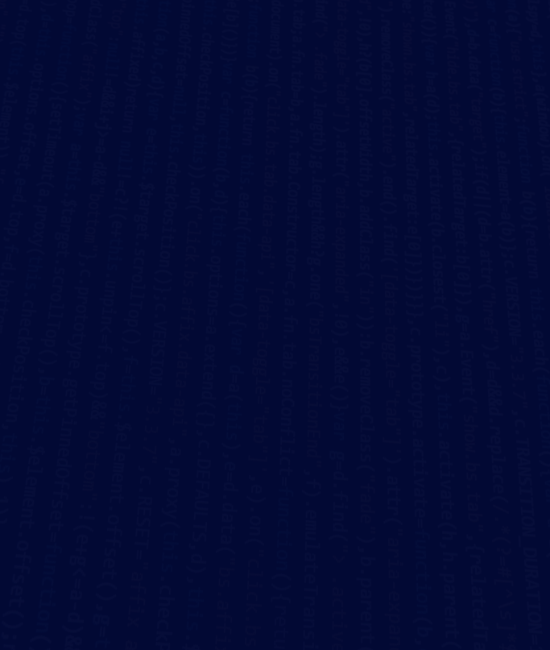
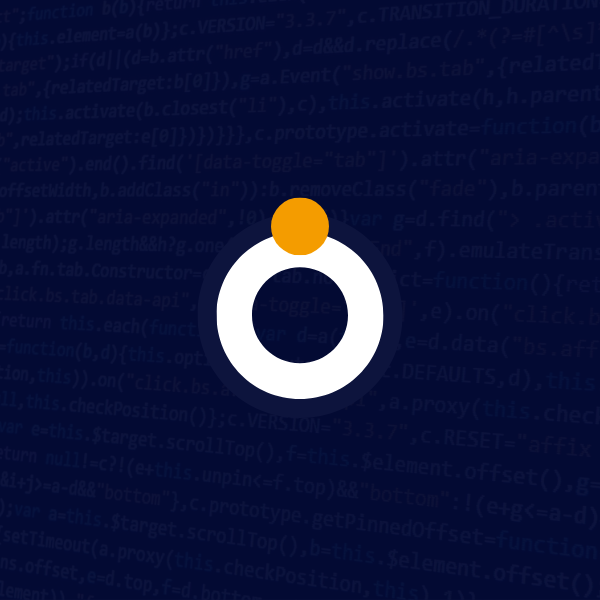
updated

Changed region(s): [[0.34, 0.33, 0.6491, 0.69]]

diff --git a/src/components/Pages/SignUp.js b/src/components/Pages/SignUp.js
@@ -15,7 +15,7 @@ const SignUp = () => {
     error,
   ] = useCreateUserWithEmailAndPassword(auth);
 
-  if(loading){
+  if (loading) {
     return <button class="btn btn-square loading flex mx-auto"></button>
   }
 
@@ -25,114 +25,116 @@ const SignUp = () => {
   };
 
   return (
-    <div className='flex'>
-      <div className='flex-1 hidden lg:block'><LeftSide/></div>
-      <div className='flex-1 items-start m-16'>
-        <h2 className='text-3xl text-left font-bold'>Create an account</h2>
-        <p className='text-xl text-gray-500 mt-3 text-left font-semibold'>Let's get started! Fill the form below to sign up</p>
-        <form onSubmit={handleSubmit(onSubmit)}>
-          <div class="form-control w-full">
-            <label class="label">
-              <span class="label-text text-xl mt-3">Pick a username</span>
-            </label>
-            <input
-              type="text"
-              placeholder="Username"
-              class="input text-xl input-bordered w-full "
-              {...register("username", {
-                required: {
-                  value: true,
-                  message: "Username is Required"
-                }
-              })}
-            />
-            <label className='label text-red-500'>
-              {errors.name?.type === 'required' && "Username is required"}
-            </label>
-            <label class="label">
-              <span class="label-text text-xl">Name</span>
-            </label>
-            <input
-              type="text"
-              placeholder="John Smith"
-              class="input text-xl input-bordered w-full "
-              {...register("name", {
-                required: {
-                  value: true,
-                  message: "Name is Required"
-                }
-              })}
-            />
-            <label class="label text-red-500">
-            {errors.name?.type === 'required' && "Name is required"}
-            </label>
-            <label class="label">
-              <span class="label-text text-xl mt-3">Email</span>
-            </label>
-            <input
-              type="email"
-              placeholder="johndoe@gmail.com"
-              class="input text-xl input-bordered w-full "
-              {...register("email", {
-                required: {
-                  value: true,
-                  message: "Email is Required"
-                },
-                pattern: {
-                  value: /[a-z0-9]+@[a-z]+\.[a-z]{2,3}/,
-                  message: 'Provide a valid Email'
-                }
-              })}
-            />
-            <label class="label">
-              {errors.email?.type === 'required' && <span class="label-text text-xl text-red-500">{errors.email.message}</span>}
-              {errors.email?.type === 'pattern' && <span class="label-text text-xl text-red-500">{errors.email.message}</span>}
-            </label>
-            <label className="label">
-              <span class="label-text text-xl">Country</span>
-            </label>
-            <select
-              class="select font-normal text-gray-400 text-xl select-bordered w-full"
-              {...register("country")}
-            >
-              <option className='text-xl' disabled selected>Select a Country</option>
-              <option value="Bangladesh" className='text-xl'>India</option>
-              <option value="India" className='text-xl'>Bangladesh</option>
-            </select>
-            <label class="label">
-              <span class="label-text text-xl mt-3">Password</span>
-            </label>
-            <input
-              type="password"
-              placeholder="password"
-              class="input text-xl input-bordered w-full "
-              {...register("password", {
-                required: {
-                  value: true,
-                  message: "Password is Required"
-                },
-                minLength: {
-                  value: 6,
-                  message: 'Provide a six character or longer'
-                }
-              })}
-            />
-            <label class="label">
-              {errors.password?.type === 'required' && <span class="label-text text-xl text-red-500">{errors.password.message}</span>}
-              {errors.password?.type === 'minLength' && <span class="label-text text-xl text-red-500">{errors.password.message}</span>}
-            </label>
-            <label class="label">
-              <span class="label-text text-xl">Referral Code (Optional)</span>
-            </label>
-            <input type="text" 
-            placeholder="Enter Referral Code" 
-            class="input text-xl input-bordered w-full" 
-            {...register("referral")}
-            />
-            <input className='btn btn-primary w-full my-8 text-white' type="submit" value="Sign Up" />
-            <p className='text-xl'>Already have an account? <Link to="/login" className='text-secondary'>Login</Link></p>
-          </div>
-        </form>
+    <div className='flex h-screen'>
+      <div className='flex-1 hidden lg:block'><LeftSide /></div>
+      <div className='overflow-x-hidden'>
+        <div className='lg:mx-28 m-14 lg:my-12'>
+          <h2 className='text-3xl text-left font-bold'>Create an account</h2>
+          <p className='text-xl text-gray-500 mt-3 text-left font-semibold'>Let's get started! Fill the form below to sign up</p>
+          <form onSubmit={handleSubmit(onSubmit)}>
+            <div class="form-control w-full">
+              <label class="label">
+                <span class="label-text text-xl mt-3">Pick a username</span>
+              </label>
+              <input
+                type="text"
+                placeholder="Username"
+                class="input text-xl input-lg input-bordered w-full"
+                {...register("username", {
+                  required: {
+                    value: true,
+                    message: "Username is Required"
+                  }
+                })}
+              />
+              <label className='label text-red-500'>
+                {errors.name?.type === 'required' && "Username is required"}
+              </label>
+              <label class="label">
+                <span class="label-text text-xl">Name</span>
+              </label>
+              <input
+                type="text"
+                placeholder="John Smith"
+                class="input text-xl input-lg input-bordered w-full px-3 py-2"
+                {...register("name", {
+                  required: {
+                    value: true,
+                    message: "Name is Required"
+                  }
+                })}
+              />
+              <label class="label text-red-500">
+                {errors.name?.type === 'required' && "Name is required"}
+              </label>
+              <label class="label">
+                <span class="label-text text-xl mt-3">Email</span>
+              </label>
+              <input
+                type="email"
+                placeholder="johndoe@gmail.com"
+                class="input text-xl input-lg input-bordered w-full "
+                {...register("email", {
+                  required: {
+                    value: true,
+                    message: "Email is Required"
+                  },
+                  pattern: {
+                    value: /[a-z0-9]+@[a-z]+\.[a-z]{2,3}/,
+                    message: 'Provide a valid Email'
+                  }
+                })}
+              />
+              <label class="label">
+                {errors.email?.type === 'required' && <span class="label-text text-xl text-red-500">{errors.email.message}</span>}
+                {errors.email?.type === 'pattern' && <span class="label-text text-xl text-red-500">{errors.email.message}</span>}
+              </label>
+              <label className="label">
+                <span class="label-text text-xl">Country</span>
+              </label>
+              <select
+                class="select font-normal input-lg text-gray-400 text-xl select-bordered w-full"
+                {...register("country")}
+              >
+                <option className='text-xl' disabled selected>Select a Country</option>
+                <option value="Bangladesh" className='text-xl'>India</option>
+                <option value="India" className='text-xl'>Bangladesh</option>
+              </select>
+              <label class="label">
+                <span class="label-text text-xl mt-3">Password</span>
+              </label>
+              <input
+                type="password"
+                placeholder="password"
+                class="input text-xl input-lg input-bordered w-full "
+                {...register("password", {
+                  required: {
+                    value: true,
+                    message: "Password is Required"
+                  },
+                  minLength: {
+                    value: 6,
+                    message: 'Provide a six character or longer'
+                  }
+                })}
+              />
+              <label class="label">
+                {errors.password?.type === 'required' && <span class="label-text text-xl text-red-500">{errors.password.message}</span>}
+                {errors.password?.type === 'minLength' && <span class="label-text text-xl text-red-500">{errors.password.message}</span>}
+              </label>
+              <label class="label">
+                <span class="label-text text-xl">Referral Code (Optional)</span>
+              </label>
+              <input type="text"
+                placeholder="Enter Referral Code"
+                class="input text-xl input-lg input-bordered w-full"
+                {...register("referral")}
+              />
+              <input className='btn btn-primary input-lg w-full my-8 text-white' type="submit" value="Sign Up" />
+              <p className='text-xl'>Already have an account? <Link to="/login" className='text-secondary'>Login</Link></p>
+            </div>
+          </form>
+        </div>
       </div>
     </div>
   );

diff --git a/src/components/Pages/Login.js b/src/components/Pages/Login.js
@@ -30,11 +30,9 @@ const Login = () => {
     };
 
     return (
-        <div className='flex'>
-            <div className='flex-1 hidden lg:block'>
-                <LeftSide/>
-            </div>
-            <div className='flex-1 items-start m-16'>
+        <div className='flex h-screen'>
+            <div className='flex-1 hidden lg:block'><LeftSide /></div>
+            <div className='flex-1 mx-12 my-12'>
                 <h2 className='text-3xl text-left font-bold'>Welcome back!</h2>
                 <p className='text-xl text-gray-500 mt-3 text-left font-semibold'>Sign in to continue</p>
                 <form onSubmit={handleSubmit(onSubmit)}>
@@ -45,7 +43,7 @@ const Login = () => {
                         <input
                             type="email"
                             placeholder="johndoe@gmail.com"
-                            class="input text-xl input-bordered w-full "
+                            class="input text-xl input-lg input-bordered w-full"
                             {...register("email", {
                                 required: {
                                     value: true,
@@ -67,7 +65,7 @@ const Login = () => {
                         <input
                             type="password"
                             placeholder="password"
-                            class="input text-xl input-bordered w-full "
+                            class="input text-xl input-lg input-bordered w-full "
                             {...register("password", {
                                 required: {
                                     value: true,
@@ -84,8 +82,8 @@ const Login = () => {
                             {errors.password?.type === 'minLength' && <span class="label-text text-xl text-red-500">{errors.password.message}</span>}
                         </label>
                         {signInError}
-                        <p className='text-xl'>Forgot your password? <span className='text-secondary'>Reset</span></p>
-                        <input className='btn btn-primary w-full my-8 text-white' type="submit" value="Sign In" />
+                        <p className='text-xl'>Forgot your password? <span className='text-blue-600'>Reset</span></p>
+                        <input className='btn btn-primary input-lg w-full my-8 text-white' type="submit" value="Sign In" />
                         <p className='text-xl'>Don't have an account? <Link to="/signup" className='text-secondary'>Sign Up</Link></p>
                     </div>
                 </form>

diff --git a/src/components/Pages/LeftSide.js b/src/components/Pages/LeftSide.js
@@ -1,15 +1,19 @@
 import React from 'react';
-import bg from '../../assets/bg.jpg'
+import bg from '../../assets/bg.jpg';
+import logo from '../../assets/logo.png'
+import "./LeftSide.css"
 
 const LeftSide = () => {
     return (
-            <div style={{backgroundImage:  `url(${bg})`}} className='fixed w-full bg-no-repeat h-screen'>
-                <div className='text-white pl-14'>
-                    <h1 class="text-3xl mt-7 font-bold">logo</h1>
-                    <p className='text-5xl font-bold my-56 ml-40'>Middle</p>
+        <div /* style={{backgroundImage: `url(${bg})`}} */ className='relative bg-no-repeat'>
+            <img className='absolute h-screen' src={bg} alt="" />
+            <div className='text-white absolute'>
+                <div className='left-side-content flex flex-col justify-between h-screen p-10'>
+                    <img className='w-16' src={logo} alt="" />
                     <h3 class="text-2xl">© 2022 Fidia Creatives, Inc.</h3>
                 </div>
             </div>
+        </div>
     );
 };
 

diff --git a/src/App.js b/src/App.js
@@ -2,18 +2,16 @@ import './App.css';
 import { Routes, Route } from 'react-router-dom'
 import Login from './components/Pages/Login';
 import SignUp from './components/Pages/SignUp';
-import Navbar from './components/Shared/Navbar';
 
 function App() {
 
   return (
     <div className='app'>
       <div>
-        <SignUp/>
         <Routes>
-          <Route path='/'></Route>
+          <Route path='/' element={<Login/>}></Route>
           <Route path='/login' element={<Login />}></Route>
-          <Route path='signup' element={<SignUp />}></Route>
+          <Route path='/signup' element={<SignUp />}></Route>
         </Routes>
       </div>
     </div>

diff --git a/src/index.css b/src/index.css
@@ -1,12 +1,12 @@
+@import url('https://fonts.googleapis.com/css2?family=Work+Sans:wght@400;600;700&display=swap');
+
 @tailwind base;
 @tailwind components;
 @tailwind utilities;
 
 body {
   margin: 0;
-  font-family: -apple-system, BlinkMacSystemFont, 'Segoe UI', 'Roboto', 'Oxygen',
-    'Ubuntu', 'Cantarell', 'Fira Sans', 'Droid Sans', 'Helvetica Neue',
-    sans-serif;
+  font-family: 'Work Sans', sans-serif;
   -webkit-font-smoothing: antialiased;
   -moz-osx-font-smoothing: grayscale;
 }

diff --git a/tailwind.config.js b/tailwind.config.js
@@ -16,8 +16,6 @@ module.exports = {
           "base-100": "#ffffff",
         },
       },
-      "dark",
-      "cupcake",
     ],
   },
   plugins: [require("daisyui")],

diff --git a/src/components/Pages/LeftSide.css b/src/components/Pages/LeftSide.css
@@ -1,0 +1,2 @@
+.left-side-content{
+}
